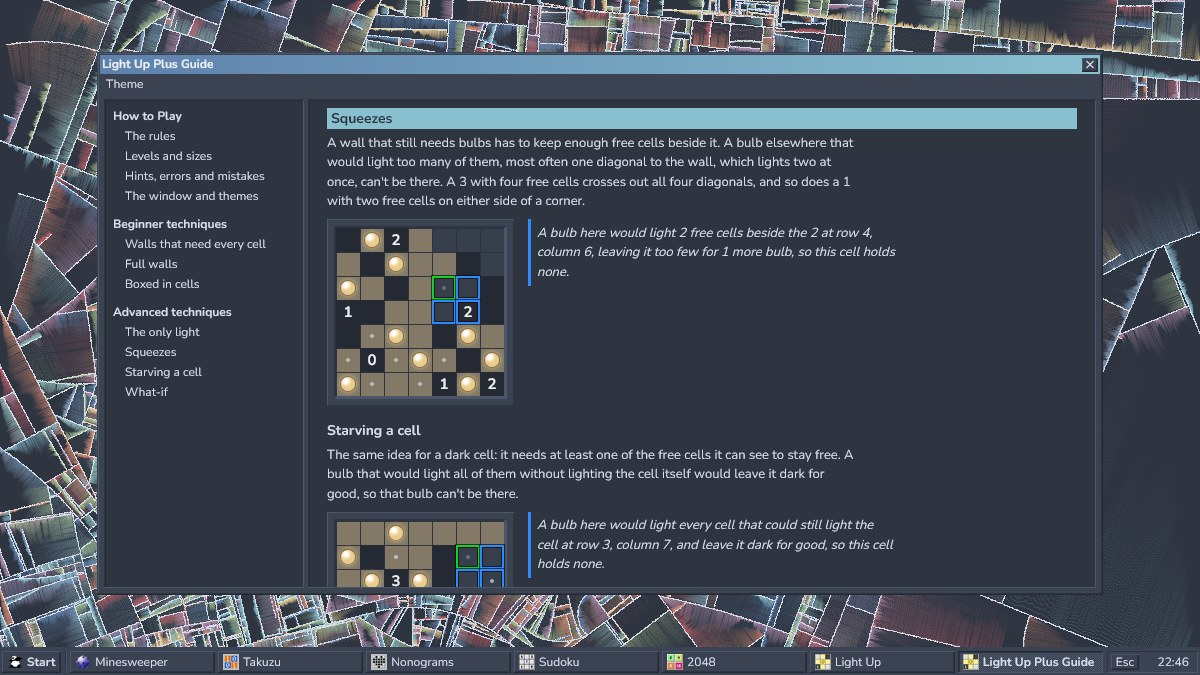
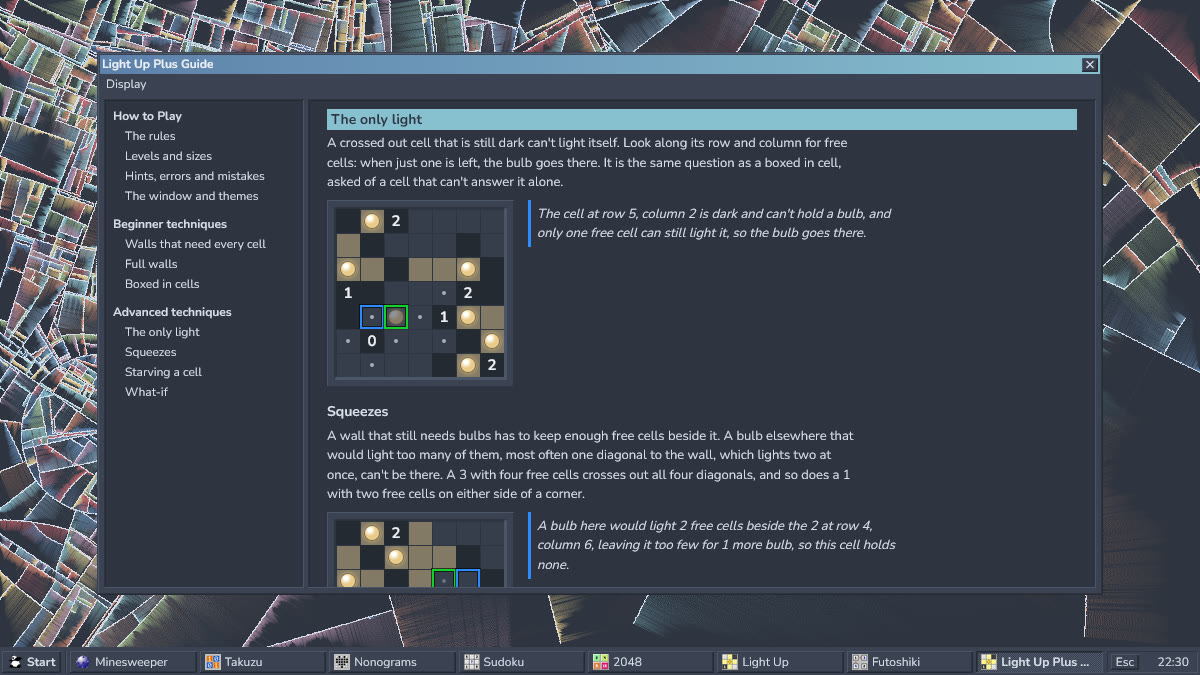
Readme pictures and link previews retaken with the Display menu and the screen look, a script that takes them (docs/screenshots.py), and the text brought up to date: moving windows, glitches, daily puzzles and redo in every logic game, the screensaver and wallpaper

Changed region(s): [[0.0, 0.0, 1.0, 1.0]]

diff --git a/docs/screenshots.py b/docs/screenshots.py
@@ -1,0 +1,292 @@
+#retakes the readme's pictures (docs/screenshots) and the link previews (public/<game>/<game>.jpg)
+#from a dev server at localhost:5173, in playwright's firefox with webgl2 switched on
+#usage: py -3 -I docs/screenshots.py . [shot names...], from the repo's root with yarn start running
+import json, os, subprocess, sys
+from playwright.sync_api import sync_playwright
+
+OUT = sys.argv[1]
+ONLY = sys.argv[2:]
+BASE = 'http://localhost:5173/'
+
+#shaders keep drawing and never shrink in a software renderer: pages may always draw, a draw costs nothing
+INIT = """
+document.documentElement.dataset.always = ''
+if (window.WebGL2RenderingContext) WebGL2RenderingContext.prototype.readPixels = function () {}
+"""
+
+def ctx(b, theme, store=None, size=(1200, 675), scale=1, touch=False):
+    c = b.new_context(viewport={'width': size[0], 'height': size[1]}, device_scale_factor=scale,
+                      has_touch=touch)
+    values = {'theme': theme, 'takuzu.ladder': '5', **(store or {})}
+    c.add_init_script('if (!sessionStorage.getItem("seeded")) {' +
+                      ''.join(f'localStorage.setItem({json.dumps(k)}, {json.dumps(v)});' for k, v in values.items()) +
+                      'sessionStorage.setItem("seeded", "1") }' + INIT)
+    return c
+
+def open_page(b, theme, path, store=None, **kw):
+    pg = ctx(b, theme, store, **kw).new_page()
+    pg.goto(BASE + path)
+    pg.wait_for_timeout(2500)
+    return pg
+
+def menu(pg, name, item):
+    pg.locator(f'[data-name="{name}"]').first.click()
+    pg.wait_for_timeout(150)
+    pg.get_by_role('button', name=item, exact=True).first.click()
+    pg.wait_for_timeout(250)
+
+#one step of the game's own hint, its first cell applied the way a player would
+def hint_step(pg, game):
+    pg.keyboard.press('h')
+    pg.wait_for_timeout(120)
+    cells = pg.locator('[class*=hintPlace]')
+    for k in range(cells.count()):
+        cell = cells.nth(k)
+        cls = cell.get_attribute('class') or ''
+        text = (cell.inner_text() or '').strip()
+        if game == 'takuzu':
+            cell.click(button='left' if text == '0' else 'right')
+        elif game == 'nonograms':
+            cell.click(button='left' if 'ghostFill' in cls else 'right')
+        elif game in ('sudoku', 'futoshiki'):
+            cell.click()
+            pg.keyboard.press(text[-1])
+        elif game == 'lightup':
+            if not cell.locator('[class*=bulb]').count(): continue
+            cell.click()
+        pg.wait_for_timeout(40)
+        return True
+    return False
+
+def play(pg, game, steps):
+    for _ in range(steps):
+        if not hint_step(pg, game): break
+    pg.wait_for_timeout(200)
+
+def still(pg, name, quality=3):
+    path = os.path.join(OUT, name)
+    png = path + '.png'
+    pg.screenshot(path=png)
+    subprocess.run(['ffmpeg', '-v', 'error', '-y', '-i', png, '-q:v', str(quality), path], check=True)
+    os.remove(png)
+    print('wrote', name)
+
+#28 frames at 960 px, as the readme's other animations
+def animated(pg, name, frames=28, gap=110):
+    tmp = os.path.join(OUT, '_frames')
+    os.makedirs(tmp, exist_ok=True)
+    for f in os.listdir(tmp): os.remove(os.path.join(tmp, f))
+    for k in range(frames):
+        pg.screenshot(path=os.path.join(tmp, f'{k:03d}.png'))
+        pg.wait_for_timeout(gap)
+    subprocess.run(['ffmpeg', '-v', 'error', '-y', '-framerate', '8', '-i', os.path.join(tmp, '%03d.png'),
+                    '-vf', 'scale=960:-1:flags=lanczos', '-c:v', 'libwebp_anim', '-lossless', '0',
+                    '-quality', '50', '-loop', '0', os.path.join(OUT, name)], check=True)
+    for f in os.listdir(tmp): os.remove(os.path.join(tmp, f))
+    os.rmdir(tmp)
+    print('wrote', name, os.path.getsize(os.path.join(OUT, name)) // 1024, 'kB')
+
+def first_click(pg):
+    #minesweeper deals on the first opened cell; no guessing clears round it and deals a solvable board
+    menu(pg, 'game', 'No Guessing')
+    box = pg.locator('[class*=Game_field]').first.bounding_box()
+    pg.mouse.click(box['x'] + box['width'] / 2, box['y'] + box['height'] / 2)
+    pg.wait_for_timeout(300)
+
+SHOTS = {}
+def shot(f):
+    SHOTS[f.__name__] = f
+    return f
+
+@shot
+def classic_minesweeper(b):
+    pg = open_page(b, 'classic', 'minesweeper/', {'level': 'intermediate'})
+    first_click(pg)
+    pg.keyboard.press('h')
+    pg.wait_for_timeout(300)
+    pg.locator('[title=Start]').click()
+    pg.wait_for_timeout(300)
+    still(pg, 'docs/screenshots/classic-minesweeper.jpg')
+
+@shot
+def classic_clouds_takuzu(b):
+    pg = open_page(b, 'classic', 'takuzu/', {'takuzu.size': '10', 'takuzu.errors': 'on',
+        'backgrounds': json.dumps({'version': 2, 'driftclouds': {'animated': True, 'resolution': 100}})})
+    play(pg, 'takuzu', 30)
+    #three alike in a row, which show errors marks
+    empty = pg.locator('[class*=Cell_empty]')
+    for k in range(3):
+        empty.first.click()
+        pg.wait_for_timeout(60)
+    pg.mouse.move(5, 5)
+    animated(pg, 'docs/screenshots/classic-clouds-takuzu.webp')
+
+@shot
+def synthwave_minesweeper(b):
+    pg = open_page(b, 'synthwave', 'minesweeper/', {'level': 'expert',
+        'backgrounds': json.dumps({'version': 2, 'neon': {'resolution': 100}})})
+    first_click(pg)
+    cells = pg.locator('[class*=Game_active] > *')
+    k = 0
+    while pg.locator('[class*=fieldLost]').count() == 0 and k < 400:
+        n = cells.count()
+        if n == 0: break
+        cells.nth((k * 37) % n).click()
+        k += 1
+    pg.wait_for_timeout(400)
+    menu(pg, 'game', 'Best Times...')
+    animated(pg, 'docs/screenshots/synthwave-minesweeper.webp')
+
+@shot
+def matrix_nonograms(b):
+    pg = open_page(b, 'matrix', 'nonograms/', {'nonograms.size': '15', 'nonograms.rain': 'on'})
+    play(pg, 'nonograms', 60)
+    pg.keyboard.press('h')
+    pg.mouse.move(5, 5)
+    animated(pg, 'docs/screenshots/matrix-nonograms.webp')
+
+@shot
+def nord_nonograms(b):
+    pg = open_page(b, 'nord', 'nonograms/', {'nonograms.size': '25', 'nonograms.level': '3', 'maximised': 'yes'})
+    play(pg, 'nonograms', 90)
+    pg.locator('[data-name="display"]').first.click()
+    pg.wait_for_timeout(150)
+    pg.get_by_role('button', name='Theme', exact=True).first.hover()
+    pg.wait_for_timeout(200)
+    animated(pg, 'docs/screenshots/nord-nonograms.webp')
+
+@shot
+def solarized_takuzu(b):
+    pg = open_page(b, 'solarized', 'takuzu/', {'takuzu.size': '8',
+        'backgrounds': json.dumps({'version': 2, 'truchet': {'animated': False}})})
+    #every cell but one by the hints, then the last one wrong
+    for _ in range(80):
+        if pg.locator('[class*=Cell_empty]').count() <= 1: break
+        if not hint_step(pg, 'takuzu'): break
+    last = pg.locator('[class*=Cell_empty]').first
+    pg.keyboard.press('h'); pg.wait_for_timeout(150)
+    right = (pg.locator('[class*=hintPlace]').first.inner_text() or '0').strip()
+    last.click(button='right' if right == '0' else 'left')
+    pg.wait_for_timeout(3000)
+    still(pg, 'docs/screenshots/solarized-takuzu.jpg')
+
+@shot
+def phosphor_open_games(b):
+    pg = open_page(b, 'solarized-phosphor', 'sudoku/')
+    pg.wait_for_timeout(40000)
+    pg.locator('[class*=Dialog_header] [class*=Dialog_button] button').first.click()
+    pg.wait_for_timeout(500)
+    animated(pg, 'docs/screenshots/phosphor-open-games.webp')
+
+@shot
+def guide(b):
+    pg = open_page(b, 'terafox-coral', 'takuzu/guide/#gaps')
+    pg.wait_for_timeout(1500)
+    still(pg, 'docs/screenshots/guide.jpg')
+
+@shot
+def matrix_sudoku(b):
+    pg = open_page(b, 'matrix', 'sudoku/', {'sudoku.level': '1'})
+    play(pg, 'sudoku', 18)
+    menu(pg, 'game', 'Auto Notes')
+    pg.keyboard.press('h')
+    pg.wait_for_timeout(300)
+    pg.mouse.move(5, 5)
+    still(pg, 'docs/screenshots/matrix-sudoku.jpg')
+
+@shot
+def phosphor_2048(b):
+    pg = open_page(b, 'solarized-phosphor', '2048/')
+    pg.wait_for_timeout(9000)
+    for k in range(40):
+        pg.keyboard.press(['ArrowLeft', 'ArrowDown', 'ArrowRight', 'ArrowDown'][k % 4])
+        pg.wait_for_timeout(60)
+    pg.keyboard.press('h')
+    pg.wait_for_timeout(600)
+    still(pg, 'docs/screenshots/phosphor-2048.jpg')
+
+@shot
+def synthwave_lightup(b):
+    pg = open_page(b, 'synthwave', 'lightup/', {'lightup.size': '14',
+        'backgrounds': json.dumps({'version': 2, 'neon': {'resolution': 100}})})
+    play(pg, 'lightup', 18)
+    pg.keyboard.press('h')
+    pg.wait_for_timeout(500)
+    pg.mouse.move(5, 5)
+    still(pg, 'docs/screenshots/synthwave-lightup.jpg')
+
+@shot
+def lightup_guide(b):
+    pg = open_page(b, 'nord', 'lightup/guide/#lone',
+        {'backgrounds': json.dumps({'version': 2, 'substrate': {'animated': False}})})
+    pg.wait_for_timeout(1500)
+    still(pg, 'docs/screenshots/lightup-guide.jpg')
+
+@shot
+def vaporwave_2048(b):
+    pg = open_page(b, 'vaporwave', '2048/')
+    for k in range(30):
+        pg.keyboard.press(['ArrowLeft', 'ArrowDown', 'ArrowRight', 'ArrowDown'][k % 4])
+        pg.wait_for_timeout(60)
+    pg.keyboard.press('h')
+    pg.wait_for_timeout(600)
+    animated(pg, 'docs/screenshots/vaporwave-2048.webp')
+
+@shot
+def terafox_futoshiki(b):
+    pg = open_page(b, 'terafox', 'futoshiki/', {'futoshiki.size': '6'})
+    pg.wait_for_timeout(20000)
+    play(pg, 'futoshiki', 12)
+    pg.keyboard.press('h')
+    pg.wait_for_timeout(300)
+    pg.mouse.move(5, 5)
+    animated(pg, 'docs/screenshots/terafox-futoshiki.webp')
+
+@shot
+def portrait(b):
+    pg = open_page(b, 'matrix', 'minesweeper/', {'level': 'expert',
+        'backgrounds': json.dumps({'version': 2, 'matrix': {'animated': False}})}, size=(390, 844), scale=2, touch=True)
+    cells = pg.locator('[class*=Game_active] > *, [class*=Game_inactive] > *')
+    cells.nth(cells.count() // 2).tap()
+    pg.wait_for_timeout(500)
+    still(pg, 'docs/screenshots/portrait.jpg')
+
+#link previews, 1200 x 675, a game in play with its hint
+PREVIEWS = {
+    'minesweeper': ('classic', {'level': 'intermediate'}, 0),
+    'takuzu': ('synthwave', {'takuzu.size': '8'}, 10),
+    'nonograms': ('nord', {'nonograms.size': '10'}, 6),
+    'sudoku': ('synthwave', {}, 14),
+    '2048': ('classic', {}, 0),
+    'lightup': ('classic', {'lightup.size': '10', 'scale': '1.5'}, 6),
+    'futoshiki': ('classic', {'futoshiki.size': '5', 'scale': '1.5'}, 6),
+}
+
+for game, (theme, store, steps) in PREVIEWS.items():
+    def preview(b, game=game, theme=theme, store=store, steps=steps):
+        backgrounds = {'version': 2, 'neon': {'resolution': 100}}
+        pg = open_page(b, theme, game + '/', {**store, 'backgrounds': json.dumps(backgrounds)})
+        if game == 'minesweeper':
+            first_click(pg)
+        elif game == '2048':
+            for k in range(24):
+                pg.keyboard.press(['ArrowLeft', 'ArrowDown', 'ArrowRight', 'ArrowDown'][k % 4])
+                pg.wait_for_timeout(60)
+        else:
+            play(pg, game, steps)
+        pg.keyboard.press('h')
+        pg.wait_for_timeout(500)
+        pg.mouse.move(5, 5)
+        still(pg, f'public/{game}/{game}.jpg')
+    preview.__name__ = 'preview_' + game
+    SHOTS[preview.__name__] = preview
+
+with sync_playwright() as p:
+    b = p.firefox.launch(firefox_user_prefs={'webgl.force-enabled': True, 'webgl.enable-webgl2': True})
+    for name, f in SHOTS.items():
+        if ONLY and name not in ONLY: continue
+        try:
+            f(b)
+        except Exception as e:
+            print('FAILED', name, type(e).__name__, str(e)[:200])
+    b.close()

diff --git a/README.md b/README.md
@@ -4,7 +4,9 @@
 
 Windows style puzzle games with hints that explain their reasoning, boards you can solve by logic alone and animated themes ported from xscreensaver, on a little Windows 95 desktop with a taskbar and Start menu. All seven games share the window, the nine themes and their backgrounds, pause, resume and the boss key, and your theme and zoom carry over between them.
 
-> **Play on your phone:** [Puzzles Plus for Android](https://github.com/fexofenadine/puzzlesplus-android) is these seven games as an app, offline, with every theme. **[Download the latest release](https://github.com/fexofenadine/puzzlesplus-android/releases/latest)** (a signed APK).
+> **Play on your phone:** [Puzzles Plus for Android](https://github.com/fexofenadine/puzzlesplus-android) is these seven games as an app, offline, with every theme, and the themes' backgrounds as a live wallpaper. **[Download the latest release](https://github.com/fexofenadine/puzzlesplus-android/releases/latest)** (a signed APK).
+>
+> **On Windows:** [Puzzles Plus Screensaver](https://github.com/fexofenadine/puzzlesplus-screensaver) shows the themes' backgrounds and effects as a screensaver.
 
 | [Play Minesweeper Plus](https://fexofenadine.github.io/puzzlesplus/minesweeper/)                                        | [Play Takuzu Plus](https://fexofenadine.github.io/puzzlesplus/takuzu/)                              | [Play Nonograms Plus](https://fexofenadine.github.io/puzzlesplus/nonograms/)                                    | [Play Sudoku Plus](https://fexofenadine.github.io/puzzlesplus/sudoku/)                              | [Play 2048 Plus](https://fexofenadine.github.io/puzzlesplus/2048/)                          | [Play Light Up Plus](https://fexofenadine.github.io/puzzlesplus/lightup/)                                | [Play Futoshiki Plus](https://fexofenadine.github.io/puzzlesplus/futoshiki/)                                    |
 | ----------------------------------------------------------------------------------------------------------------------- | --------------------------------------------------------------------------------------------------- | --------------------------------------------------------------------------------------------------------------- | --------------------------------------------------------------------------------------------------- | ------------------------------------------------------------------------------------------- | -------------------------------------------------------------------------------------------------------- | --------------------------------------------------------------------------------------------------------------- |
@@ -19,7 +21,7 @@ Each game has a guide, from the rules to every solving technique (or, for 2048, 
 | ![Minesweeper on Classic](docs/screenshots/classic-minesweeper.jpg)            | ![Takuzu over Drift Clouds](docs/screenshots/classic-clouds-takuzu.webp) |
 | **Synthwave: a lost Expert game glitching, and best times**                    | **Matrix: Nonograms with rain glyphs and a hint**                        |
 | ![Minesweeper on Synthwave](docs/screenshots/synthwave-minesweeper.webp)       | ![Nonograms on Matrix](docs/screenshots/matrix-nonograms.webp)           |
-| **Nord: 25 × 25 Expert maximised over Substrate, with the View menu**          | **Solarized Truchet, still: a full Takuzu board with a mistake**         |
+| **Nord: 25 × 25 Expert maximised over Substrate, with the Display menu**       | **Solarized Truchet, still: a full Takuzu board with a mistake**         |
 | ![Nonograms on Nord](docs/screenshots/nord-nonograms.webp)                     | ![Takuzu on Solarized Truchet](docs/screenshots/solarized-takuzu.jpg)    |
 | **Solarized Phosphor: Open Games after closing a window**                      | **A guide page, its example drawn by the game's own code**               |
 | ![Open Games on Solarized Phosphor](docs/screenshots/phosphor-open-games.webp) | ![The Takuzu guide](docs/screenshots/guide.jpg)                          |
@@ -48,7 +50,7 @@ A fork of [frenzzy/minesweeper](https://github.com/frenzzy/minesweeper), whose C
 Fill the grid with 0s and 1s: no three alike in a row, as many 0s as 1s in every line, and no two rows or columns the same.
 
 - Five levels from Easy to Expert and five sizes from 6 × 6 to 14 × 14, every board with one solution and graded by the reasoning it really needs.
-- Hints that find broken rules and wrong cells before the next step, Show Errors, undo and a question when a full board is wrong.
+- Hints that find broken rules and wrong cells before the next step, Show Errors, undo and redo, keyboard play, a daily puzzle, boards shared as links and a question when a full board is wrong.
 
 ## Nonograms Plus
 
@@ -56,7 +58,7 @@ Fill the cells whose runs match the clues beside each row and above each column,
 
 - Four levels and five sizes from 5 × 5 to 25 × 25, random pictures touched up until logic alone can finish them, symmetric or not as you choose, and always filling the grid.
 - Turn off Procedural to play a pool of pictures drawn for the game, picked at your level or chosen by hand, with their own best times and a name and credit when you solve one. Pictures are plain text files in `src/nonograms/art`, easy to add to.
-- Drag to paint along a line, crosses as notes, a fill or cross mode for touch screens, hints, Show Errors and undo.
+- Drag to paint along a line, crosses as notes, a fill or cross mode for touch screens, the row and column under the mouse marked, keyboard play, hints, Show Errors, undo and redo, a daily puzzle and boards shared as links.
 
 ## Sudoku Plus
 
@@ -65,6 +67,7 @@ Fill the grid so every row, column and box holds 1 to 9 once each, or play a sma
 - Four levels from Easy to Expert, every board with one solution and graded by the hardest technique it needs, from singles to the Swordfish and XYZ-Wing.
 - A number pad under the board for touch screens and mice, the keyboard for everything, notes (with Auto Notes and notes that tidy themselves as digits go in), and a pick-a-digit-then-tap-cells mode.
 - Hints that find repeats, wrong digits and notes that leave out the answer before the next step, and explain any candidate they take away to get there.
+- Show Errors, undo and redo, a daily puzzle and boards shared as links.
 
 ## 2048 Plus
 
@@ -92,15 +95,16 @@ Fill the grid so every row and column holds each digit once, with the signs betw
 
 ## Every game
 
-- **A desktop**: a taskbar with a Start menu, a button per game and a clock. Windows minimise to the taskbar, maximise to fill the page, and close to an Open Games dialog. Zoom from the Display menu or with + and -.
-- **Nine themes**: Classic, Synthwave, Matrix, Nord, Solarized Truchet, Solarized Phosphor, Vaporwave, Terafox Hex Trail and Terafox Coral, each over an xscreensaver port with its original options, any of which can be switched to a still picture.
+- **A desktop**: a taskbar with a Start menu, a button per game and a clock. Windows and dialogs move by their title bars as on Windows 95, minimise to the taskbar, maximise to fill the page, and close to an Open Games dialog.
+- **The Display menu**: zoom (also + and -), the Theme and Motion flyouts, background and window settings, Hide Window, Fireworks, and on Synthwave, Vaporwave and Matrix **Glitches**, which switches each screen effect on or off.
+- **Nine themes**: Classic, Synthwave, Matrix, Nord, Solarized Truchet, Solarized Phosphor, Vaporwave, Terafox Hex Trail and Terafox Coral, each over an animated background with its original options (ports of xscreensaver hacks and shaders, or written after them), any of which can be switched to a still picture. Synthwave, Vaporwave and Matrix lay scanlines, a rolling band and now-and-then glitches over the whole screen but the boards.
 - **Hints with a More button** that opens their technique in the game's guide.
-- **Fireworks** in each theme's colours when you win, until you press a key or click, and when 2048 reaches its tile. Switch them off in the Display menu.
-- **Pause**, automatic when you switch away, and a **boss key** (Esc) that hides everything behind a spreadsheet.
+- **Fireworks** in each theme's colours when you win, until the next game starts, and when 2048 reaches its tile. Switch them off in the Display menu.
+- **Pause**, automatic when you switch away, with a title bar button that shows only the background, like a screensaver, and a **boss key** (Esc) that hides everything behind a spreadsheet.
 - **Resume**: a game in progress survives a reload or a closed tab and comes back paused. A **Timer** option turns the clock off (and best times with it).
-- **Daily Puzzle** in Takuzu, Nonograms and Sudoku: one board a day, the same for everyone, with a streak of days solved. **Copy Link** shares the board in play as a link.
+- **Daily Puzzle** in Takuzu, Nonograms, Sudoku, Light Up and Futoshiki: one board a day, the same for everyone, with a streak of days solved. **Copy Link** shares the board in play as a link.
 - **Backup** in the Start menu carries settings, best times, statistics and saved games to another browser or the app, as a file or as text.
-- Undo everywhere it makes sense, and **redo** in Takuzu, Nonograms and Sudoku.
+- Undo everywhere it makes sense, and **redo** in Takuzu, Nonograms, Sudoku, Light Up and Futoshiki.
 - Best times per level, with and without hints, and an offline-capable service worker.
 
 ## Under the hood
@@ -108,7 +112,7 @@ Fill the grid so every row and column holds each digit once, with the signs betw
 - Rebuilt on [Vite](https://vite.dev) with Vitest, ESLint and Prettier, replacing the abandoned hyperapp-tools webpack 4 setup.
 - A plain static build with readable asset names, versioned links so browsers never mix old and new files, and a simple offline-capable service worker.
 - Settings survive browsers that block site storage, falling back to the defaults.
-- The games and their guides are pages of one build. Code the games share (the taskbar and window, themes, backgrounds, zoom, pause, the boss key, best times, settings storage, dealing in a worker) lives in `src/shell`, Minesweeper keeps the original's file layout in `src`, Takuzu, Nonograms, Sudoku and 2048 have `src/takuzu`, `src/nonograms`, `src/sudoku` and `src/2048`, and the guides `src/guide`.
+- The games and their guides are pages of one build. Code the games share (the taskbar and window, themes, backgrounds, zoom, pause, the boss key, best times, settings storage, dealing in a worker) lives in `src/shell`, Minesweeper keeps the original's file layout in `src`, the other games have their own folders (`src/takuzu`, `src/nonograms`, `src/sudoku`, `src/2048`, `src/lightup`, `src/futoshiki`), the guides `src/guide`, and the Windows screensaver's and Android wallpaper's pages `src/screensaver`.
 - The guides' examples are real positions from dealt boards, drawn with each game's own cells and captioned by its own hint code, and a test checks every one still shows its technique.
 - Takuzu's, Nonograms' and Sudoku's rules, solvers, the technique ladders behind hints and difficulty, and the generators are plain modules with no interface code, and boards are dealt in a web worker. Nonograms solves a line by dynamic programming over every way its clue can fit. Sudoku's grid is built from units (rows, columns, boxes), so other sizes and variants are a few lines. 2048 moves plain values for its expectimax hint and tiles with ids for the view, so each tile keeps its element and slides by CSS transition.
 - Animated backgrounds are canvas ports in `src/shell/backgrounds`, one file each. A port declares its options and the settings dialog builds itself from them, so adding another xscreensaver hack needs no other code. Phosphor's source code text is only downloaded when that theme is used.
@@ -119,7 +123,7 @@ Fill the grid so every row and column holds each digit once, with the signs betw
 
 ```sh
 yarn          #install dependencies
-yarn start    #dev server, the games are at /minesweeper/, /takuzu/, /nonograms/, /sudoku/ and /2048/
+yarn start    #dev server, the games are at /minesweeper/, /takuzu/, /nonograms/, /sudoku/, /2048/, /lightup/ and /futoshiki/
 yarn build    #static site in build/
 yarn test     #run tests
 yarn lint     #lint
